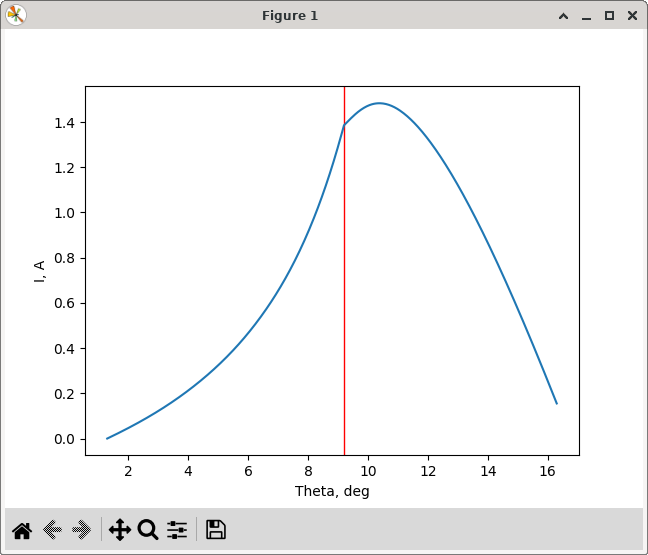
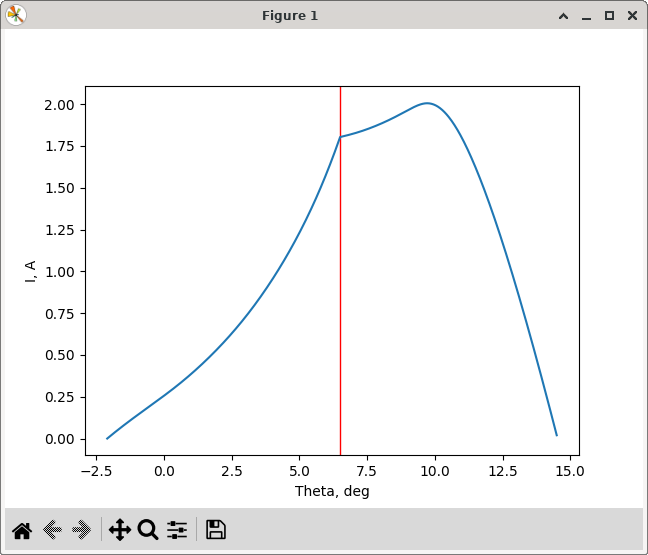
Rdson insead of Usw, current limited oprimization, cleanup

diff --git a/compute_inductance.py b/compute_inductance.py
@@ -3,56 +3,56 @@ import numpy as np
 import shutil
 import json
 
-inputPrj = "srg8"
-resultFileName = inputPrj + ".json"
-tmpPrj = inputPrj + "_tmp"
-inputFileName = inputPrj + ".fem"
-tmpFileName = tmpPrj + ".fem"
+input_prj = "srg8"
+result_file_name = input_prj + ".json"
+tmp_prj = input_prj + "_tmp"
+input_file_mame = input_prj + ".fem"
+tmp_file_name = tmp_prj + ".fem"
 
-startAngle = -25
-endAngle = 25
+start_angle = -25
+end_angle = 25
 points = 60
 
 #That's bad but innerangle doesn't affect non-airgap boundaries
-def setInnerAngle(angle):
+def set_inner_angle(angle):
     try:
         # Read the file content
-        with open(inputFileName, 'r') as inputFile:
+        with open(input_file_mame, 'r') as inputFile:
             file_content = inputFile.read()
 
         # Perform the string replacement
         modified_content = file_content.replace("<innerangle> = 0", "<innerangle> = " + angle)
 
         # Write the modified content back to the file
-        with open(tmpFileName, 'w') as tmpFile:
-            tmpFile.write(modified_content)
+        with open(tmp_file_name, 'w') as tmp_file:
+            tmp_file.write(modified_content)
 
     except FileNotFoundError:
-        print(f"Error: File not found '{inputFileName}'.")
+        print(f"Error: File not found '{input_file_mame}'.")
     except Exception as e:
         print(f"An error occurred: {e}")
 
 
-shutil.copy(inputFileName, tmpFileName)
-thetaArray = np.linspace(startAngle, endAngle, points)
-inductanceArray = np.array([])
+shutil.copy(input_file_mame, tmp_file_name)
+theta_array = np.linspace(start_angle, end_angle, points)
+inductance_array = np.array([])
 
-for theta in np.nditer(thetaArray):
+for theta in np.nditer(theta_array):
     theta_str = f"{theta:.3f}" 
-    setInnerAngle(theta_str)
-    subprocess.run(["./fmesher", tmpFileName])
-    subprocess.run(["./fsolver", tmpPrj], check=False)
-    inductance = float(subprocess.run(["./fpproc-test", tmpPrj+".ans"], capture_output=True, text=True, check=False).stdout)
-    inductanceArray = np.append(inductanceArray, inductance, axis=None)
+    set_inner_angle(theta_str)
+    subprocess.run(["./fmesher", tmp_file_name])
+    subprocess.run(["./fsolver", tmp_prj], check=False)
+    inductance = float(subprocess.run(["./fpproc-test", tmp_prj+".ans"], capture_output=True, text=True, check=False).stdout)
+    inductance_array = np.append(inductance_array, inductance, axis=None)
 
 data = {
-  "theta": thetaArray.tolist(),
-  "inductance": inductanceArray.tolist()
+  "theta": theta_array.tolist(),
+  "inductance": inductance_array.tolist()
 }
 
 try:
-    with open(resultFileName, 'w') as resultFile:
-        resultFile.write(json.dumps(data))
+    with open(result_file_name, 'w') as result_file:
+        result_file.write(json.dumps(data))
 except Exception as e:
     print(f"An error occurred: {e}")
 

diff --git a/srg_optimizer.py b/srg_optimizer.py
@@ -3,6 +3,7 @@ import numpy as np
 from scipy.integrate import quad
 from scipy.integrate import solve_ivp
 from scipy import interpolate
+from scipy.ndimage import maximum
 import json
 
 input_file_name = "srg8.json"
@@ -11,26 +12,31 @@ r = 1
 U1 = 24
 U2 = 24
 
-Usw = 0.1
+Rdson = 0.05 #Rdson of a MOSFET (excitation phase)
 Ud = 0.3
 
 strokes = 8
 rpm = 600
 omega = rpm * np.pi / 30
 
+Imax = 2
 
 num_genes = 3
 step = 0.1
-gene_space = [{'low': -3, 'high': 4, "step": step}, {'low': 0, 'high': 8, "step": step}, {'low': 0, 'high': 12, "step": step}]
+# Genes
+# Gene 1 is theta1
+# Gene 2 is theta2 - theta1
+# Gene 3 is theta_end - theta2
+gene_space = [{'low': -4, 'high': 4, "step": step}, {'low': 0, 'high': 12, "step": step}, {'low': 0, 'high': 15, "step": step}]
 
-num_generations = 30 # Number of generations.
-num_parents_mating = 2 # Number of solutions to be selected as parents in the mating pool.
+num_generations = 100 # Number of generations.
+num_parents_mating = 5 # Number of solutions to be selected as parents in the mating pool.
 
-sol_per_pop = 20 # Number of solutions in the population.
+sol_per_pop = 30 # Number of solutions in the population.
 
 try:
-    with open(input_file_name, 'r') as inputFile:
-        file_content = inputFile.read()
+    with open(input_file_name, 'r') as input_file:
+        file_content = input_file.read()
         file_data = json.loads(file_content)
         theta_data = file_data["theta"]
         Ldata = file_data["inductance"]
@@ -45,7 +51,7 @@ L = interpolate.make_splrep(theta_rad, Ldata, s=0)
 dLdTh = L.derivative()
 
 def didtheta_excite(theta, i):
-    return -(dLdTh(theta) * omega + r) / (L(theta) * omega) * i + (U1 - 2 * Usw) / (L(theta) * omega)
+    return -(dLdTh(theta) * omega + r + Rdson * 2) / (L(theta) * omega) * i + U1 / (L(theta) * omega)
 
 def didtheta_generate(theta, i):
     return -(dLdTh(theta) * omega + r) / (L(theta) * omega) * i - (U2 - 2 * Ud) / (L(theta) * omega)
@@ -61,7 +67,12 @@ def fitness_func(ga_instance, solution, solution_idx):
     i_generate = solve_ivp(didtheta_generate, [theta2, theta_end], i_excite.sol(theta2), method="Radau",dense_output=True)
     y, err = quad(i_generate.sol, theta2, theta_end)
     gen_enegry = y * U2
+
+    max_current = maximum(np.append(i_excite.y,  i_generate.y))
     power = (gen_enegry - exc_enegry) * strokes * rpm / 60
+    if(max_current > Imax):
+        power = power * 0.2
+        #print(power)
     return power
 
 
@@ -86,7 +97,7 @@ ga_instance = pygad.GA(num_generations=num_generations,
 # Running the GA to optimize the parameters of the function.
 ga_instance.run()
 
-#ga_instance.plot_fitness()
+ga_instance.plot_fitness()
 
 # Returning the details of the best solution.
 solution, solution_fitness, solution_idx = ga_instance.best_solution(ga_instance.last_generation_fitness)

diff --git a/srg_ode_solver.py b/srg_ode_solver.py
@@ -2,25 +2,24 @@ import numpy as np
 from scipy.integrate import quad
 from scipy.integrate import solve_ivp
 from scipy import interpolate
+from scipy.ndimage import maximum
 import matplotlib.pyplot as plt
 import json
 
 input_file_name = "srg8.json"
 
-theta1 = np.deg2rad(1.3)
-theta2 = np.deg2rad(9.2)
-theta_end = np.deg2rad(16.3)
+theta1 = np.deg2rad(-2.1)
+theta2 = np.deg2rad(6.5)
+theta_end = np.deg2rad(14.5)
 
 strokes = 8
-rpm = 1200
+rpm = 600
 omega = rpm * np.pi / 30
 r =  1
 U1 = 24
 U2 = 24
-Usw = 0.1 #Voltage drop on a MOSFET (excitation phase)
+Rdson = 0.05 #Rdson of a MOSFET (excitation phase)
 Ud = 0.3  #Diode forward volage (generation phase)
-# Initial condition
-i0 = 0
 
 try:
     with open(input_file_name, 'r') as inputFile:
@@ -56,7 +55,7 @@ plt.show()
 
 
 def didtheta_excite(theta, i):
-    return -(dLdTh(theta) * omega + r) / (L(theta) * omega) * i + (U1 - 2 * Usw) / (L(theta) * omega)
+    return -(dLdTh(theta) * omega + r + Rdson * 2) / (L(theta) * omega) * i + U1 / (L(theta) * omega)
 
 # Solve the ODE
 i_excite = solve_ivp(didtheta_excite, [theta1, theta2], [0], method="RK23", dense_output=True)
@@ -81,6 +80,10 @@ gen_enegry = y * U2
 
 power = (gen_enegry - exc_enegry) * strokes * rpm / 60
 print("Power:", power)
+
+
+max_current = maximum(np.append(i_excite.y,  i_generate.y))
+print(max_current)
 
 theta_generate = np.linspace(theta2, theta_end, 300)
 current_generate= i_generate.sol(theta_generate)

diff --git a/README.md b/README.md
@@ -1,5 +1,5 @@
 # An XFEMM based switched reluctance generator calculator
-You need XFEMM binaries built for your architecture with a replaced fpproc/main.cpp file as the default one doesn't output inductance.
+You need XFEMM binaries built for your architecture with a replaced fpproc/main.cpp file as the default one doesn't output the inductance.
 
 ##### compute_inductance.py
 An XFEMM wrapper that changes the rotor position and runs XFEMM apps
